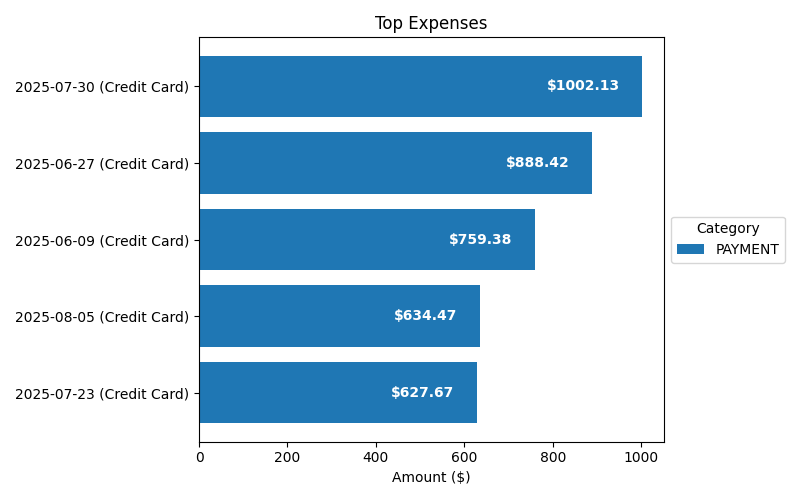
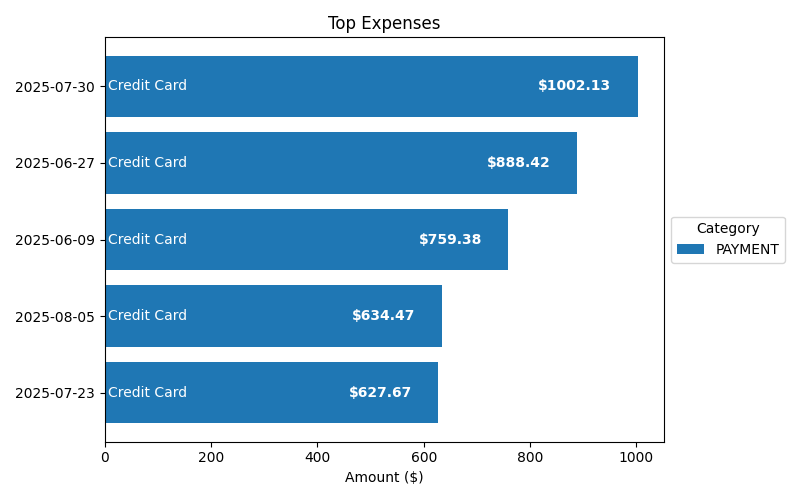
refactor

diff --git a/generate_charts.py b/generate_charts.py
@@ -69,25 +69,33 @@ def top_expenses_chart(expenses_list_dict):
     cats = [e["category"] for e in expenses_list_dict]
     subcats = [e["subcategory"] for e in expenses_list_dict]
     amounts = [abs(e["amount"]) for e in expenses_list_dict]
+
     # A color to each unique category
     unique_categories = list(set(cats))
     cmap = get_cmap("tab10")
     color_map = {cat: cmap(i) for i, cat in enumerate(unique_categories)}
     colors = [color_map[cat] for cat in cats]
+    
     # Horizontal bar chart
-    labels = [f"{d} ({s})" for d, s in zip(dates, subcats)]
-    bars = plt.barh(labels, amounts, color=colors)
+    y_pos = range(len(dates))
+    bars = plt.barh(y_pos, amounts, color=colors)
     plt.xlabel("Amount ($)")
     plt.title("Top Expenses")
     plt.gca().invert_yaxis()  # largest on top
+    # Set y-axis labels to dates
+    plt.yticks(y_pos, dates)
+    
     # Amounts labels on bars
-    for bar in bars:
-        width = bar.get_width()  
-        plt.text(width - 50, bar.get_y() + bar.get_height()/2, f"${abs(width):.2f}",
+    for bar, subcat, width in zip(bars, subcats, amounts):
+        plt.text(6, bar.get_y() + bar.get_height()/2, subcat, 
+             ha="left", va="center", color="white")
+        plt.text(width - 50, bar.get_y() + bar.get_height()/2, f"${width:.2f}",
              ha="right", va="center", color="white", fontweight="bold")
+    
     # Legend
     legend_elements = [Patch(facecolor=color_map[cat], label=cat) for cat in unique_categories]
     plt.legend(handles=legend_elements, title="Category", bbox_to_anchor=(1,0.5), loc="center left")
+    
     # Save chart
     plt.tight_layout()
     plt.savefig("top_expenses.png")
